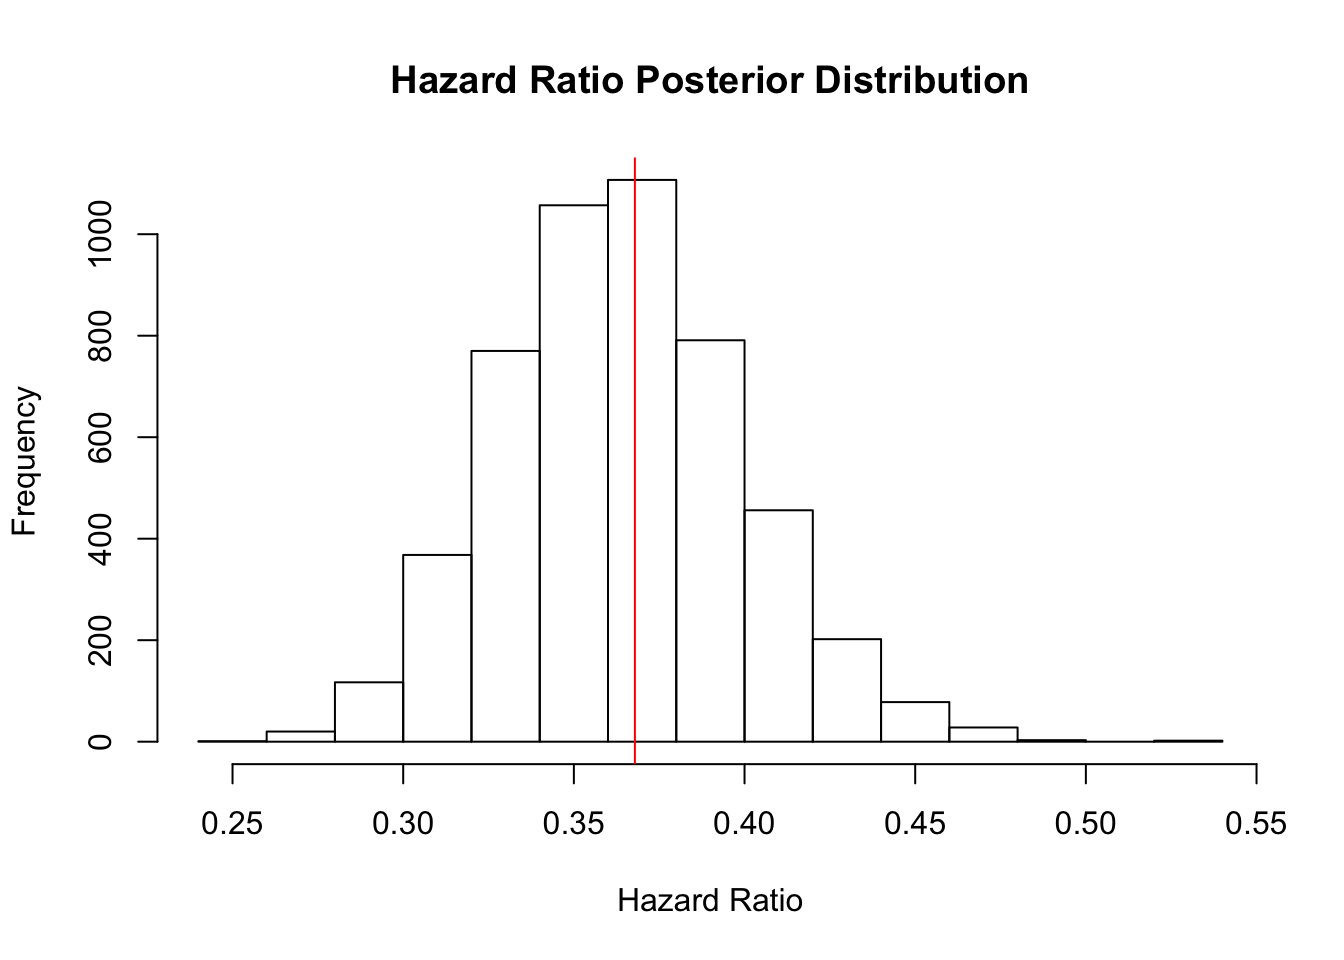
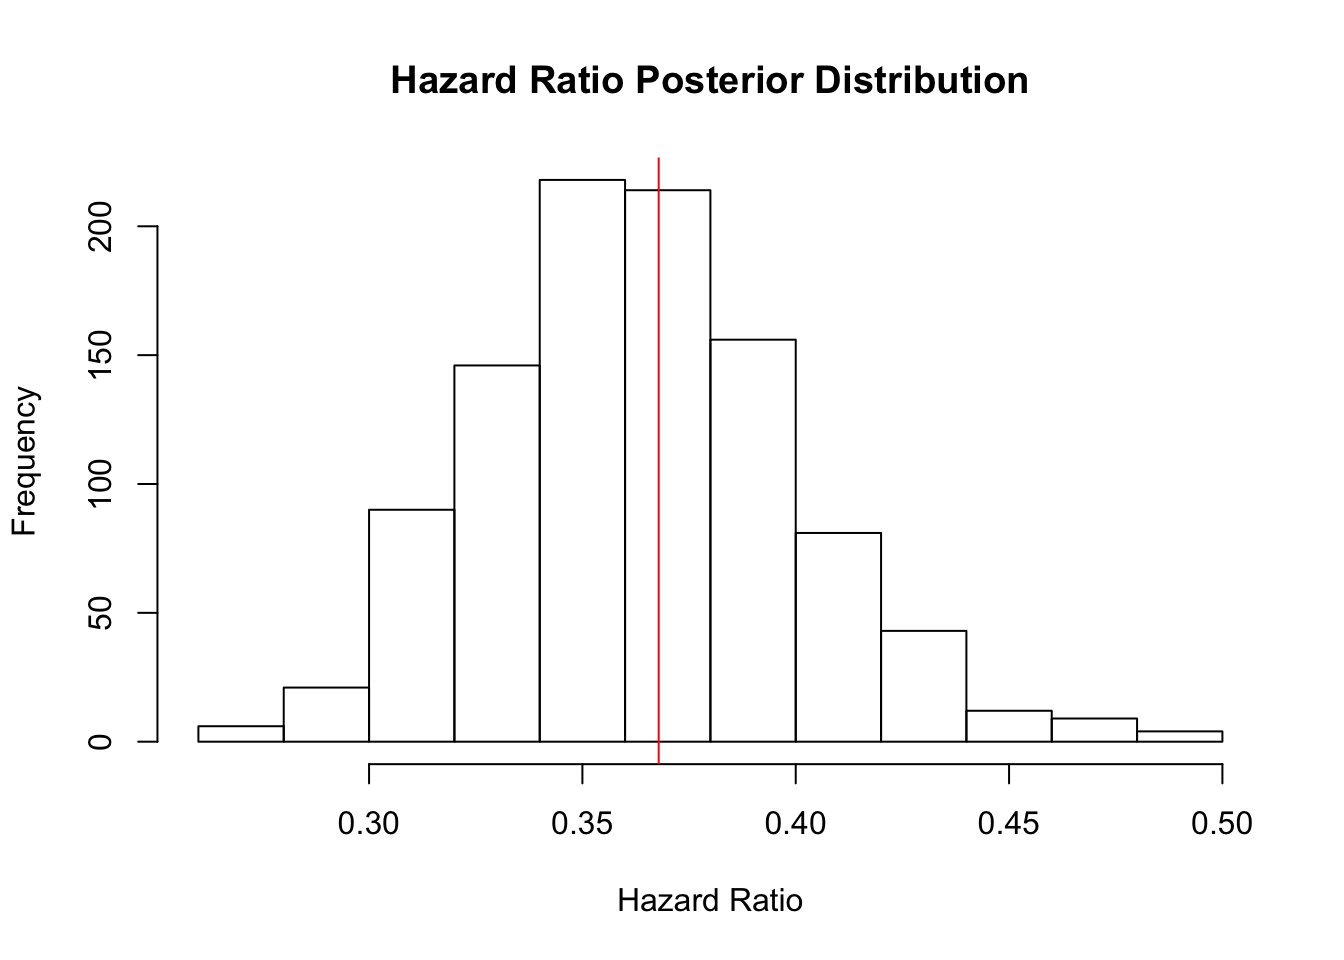
adding Stan AFT post

diff --git a/public/post/post2/specifying-accelerated-failure-time-models-in-stan/index.html b/public/post/post2/specifying-accelerated-failure-time-models-in-stan/index.html
@@ -141,7 +141,7 @@ Let’s start with simulating some randomly censored data from a Weibull model."
   
   <meta property="article:published_time" content="2019-03-09T00:00:00&#43;00:00">
   
-  <meta property="article:modified_time" content="2019-03-09T12:32:22-05:00">
+  <meta property="article:modified_time" content="2019-03-09T13:35:59-05:00">
   
 
   
@@ -316,7 +316,7 @@ Let’s start with simulating some randomly censored data from a Weibull model."
 
 
 <meta content="2019-03-09 00:00:00 &#43;0000 UTC" itemprop="datePublished">
-<meta content="2019-03-09 12:32:22 -0500 EST" itemprop="dateModified">
+<meta content="2019-03-09 13:35:59 -0500 EST" itemprop="dateModified">
 
 <div class="article-metadata">
 
@@ -534,13 +534,13 @@ generated quantities{
 <p>The Stan model specified above is stored in an object called <code>weibull_mod</code>, which is called below in <code>sampling()</code>. The code below samples from the posterior and outputs posterior draws of the hazard and predicted survival times.</p>
 <pre class="r"><code>weibull_fit &lt;- sampling(weibull_mod,
                 data = d_list, 
-                chains = 1, iter=20000, warmup=15000,
+                chains = 1, iter=20000, warmup=19000, save_warmup=F,
                 pars= c(&#39;hazard_ratio&#39;,&#39;post_pred_trt&#39;,&#39;post_pred_pbo&#39;))</code></pre>
 <pre><code>## 
 ## SAMPLING FOR MODEL &#39;80acc0f9293b946800a710dd7f5e211c&#39; NOW (CHAIN 1).
 ## Chain 1: 
-## Chain 1: Gradient evaluation took 0.00018 seconds
-## Chain 1: 1000 transitions using 10 leapfrog steps per transition would take 1.8 seconds.
+## Chain 1: Gradient evaluation took 0.000151 seconds
+## Chain 1: 1000 transitions using 10 leapfrog steps per transition would take 1.51 seconds.
 ## Chain 1: Adjust your expectations accordingly!
 ## Chain 1: 
 ## Chain 1: 
@@ -552,14 +552,14 @@ generated quantities{
 ## Chain 1: Iteration: 10000 / 20000 [ 50%]  (Warmup)
 ## Chain 1: Iteration: 12000 / 20000 [ 60%]  (Warmup)
 ## Chain 1: Iteration: 14000 / 20000 [ 70%]  (Warmup)
-## Chain 1: Iteration: 15001 / 20000 [ 75%]  (Sampling)
-## Chain 1: Iteration: 17000 / 20000 [ 85%]  (Sampling)
-## Chain 1: Iteration: 19000 / 20000 [ 95%]  (Sampling)
+## Chain 1: Iteration: 16000 / 20000 [ 80%]  (Warmup)
+## Chain 1: Iteration: 18000 / 20000 [ 90%]  (Warmup)
+## Chain 1: Iteration: 19001 / 20000 [ 95%]  (Sampling)
 ## Chain 1: Iteration: 20000 / 20000 [100%]  (Sampling)
 ## Chain 1: 
-## Chain 1:  Elapsed Time: 11.8051 seconds (Warm-up)
-## Chain 1:                4.84561 seconds (Sampling)
-## Chain 1:                16.6507 seconds (Total)
+## Chain 1:  Elapsed Time: 9.5508 seconds (Warm-up)
+## Chain 1:                0.794706 seconds (Sampling)
+## Chain 1:                10.3455 seconds (Total)
 ## Chain 1:</code></pre>
 <pre class="r"><code>post_draws&lt;-extract(weibull_fit)</code></pre>
 <p>Below we plot posterior distribution of the hazard ratio. The red line indicates the true value under which we generated the data.</p>
@@ -568,15 +568,15 @@ generated quantities{
 abline(v=exp(-1*true_beta[2,1]*true_alpha), col=&#39;red&#39;)</code></pre>
 <p><img src="/post/post2/2019-03-09-specifying-accelerated-failure-time-models-in-stan_files/figure-html/plot_hazard_ratio-1.png" width="672" /></p>
 <pre class="r"><code>mean(post_draws$hazard_ratio)</code></pre>
-<pre><code>## [1] 0.3641612</code></pre>
+<pre><code>## [1] 0.3635223</code></pre>
 <pre class="r"><code>quantile(post_draws$hazard_ratio, probs = c(.025, .975))</code></pre>
 <pre><code>##      2.5%     97.5% 
-## 0.2988710 0.4378557</code></pre>
+## 0.2989080 0.4399663</code></pre>
 <p>Below we plot the survival functions. Note these results are very similar to the augmented sampler coded in the previous post.</p>
 <pre class="r"><code>plot(survfit(Surv(survt, 1-delta) ~ A ), col=c(&#39;black&#39;,&#39;blue&#39;),
      xlab=&#39;Time&#39;,ylab=&#39;Survival Probability&#39;, conf.int=T)
 
-for(i in 1:5000){
+for(i in 1:1000){
   trt_ecdf &lt;- ecdf(post_draws$post_pred_trt[i,])
   curve(1 - trt_ecdf(x), from = 0, to=4, add=T, col=&#39;gray&#39;)
   

diff --git a/content/post/post2/2019-03-09-specifying-accelerated-failure-time-models-in-stan.html b/content/post/post2/2019-03-09-specifying-accelerated-failure-time-models-in-stan.html
@@ -120,13 +120,13 @@ generated quantities{
 <p>The Stan model specified above is stored in an object called <code>weibull_mod</code>, which is called below in <code>sampling()</code>. The code below samples from the posterior and outputs posterior draws of the hazard and predicted survival times.</p>
 <pre class="r"><code>weibull_fit &lt;- sampling(weibull_mod,
                 data = d_list, 
-                chains = 1, iter=20000, warmup=15000,
+                chains = 1, iter=20000, warmup=19000, save_warmup=F,
                 pars= c(&#39;hazard_ratio&#39;,&#39;post_pred_trt&#39;,&#39;post_pred_pbo&#39;))</code></pre>
 <pre><code>## 
 ## SAMPLING FOR MODEL &#39;80acc0f9293b946800a710dd7f5e211c&#39; NOW (CHAIN 1).
 ## Chain 1: 
-## Chain 1: Gradient evaluation took 0.00018 seconds
-## Chain 1: 1000 transitions using 10 leapfrog steps per transition would take 1.8 seconds.
+## Chain 1: Gradient evaluation took 0.000151 seconds
+## Chain 1: 1000 transitions using 10 leapfrog steps per transition would take 1.51 seconds.
 ## Chain 1: Adjust your expectations accordingly!
 ## Chain 1: 
 ## Chain 1: 
@@ -138,14 +138,14 @@ generated quantities{
 ## Chain 1: Iteration: 10000 / 20000 [ 50%]  (Warmup)
 ## Chain 1: Iteration: 12000 / 20000 [ 60%]  (Warmup)
 ## Chain 1: Iteration: 14000 / 20000 [ 70%]  (Warmup)
-## Chain 1: Iteration: 15001 / 20000 [ 75%]  (Sampling)
-## Chain 1: Iteration: 17000 / 20000 [ 85%]  (Sampling)
-## Chain 1: Iteration: 19000 / 20000 [ 95%]  (Sampling)
+## Chain 1: Iteration: 16000 / 20000 [ 80%]  (Warmup)
+## Chain 1: Iteration: 18000 / 20000 [ 90%]  (Warmup)
+## Chain 1: Iteration: 19001 / 20000 [ 95%]  (Sampling)
 ## Chain 1: Iteration: 20000 / 20000 [100%]  (Sampling)
 ## Chain 1: 
-## Chain 1:  Elapsed Time: 11.8051 seconds (Warm-up)
-## Chain 1:                4.84561 seconds (Sampling)
-## Chain 1:                16.6507 seconds (Total)
+## Chain 1:  Elapsed Time: 9.5508 seconds (Warm-up)
+## Chain 1:                0.794706 seconds (Sampling)
+## Chain 1:                10.3455 seconds (Total)
 ## Chain 1:</code></pre>
 <pre class="r"><code>post_draws&lt;-extract(weibull_fit)</code></pre>
 <p>Below we plot posterior distribution of the hazard ratio. The red line indicates the true value under which we generated the data.</p>
@@ -154,15 +154,15 @@ generated quantities{
 abline(v=exp(-1*true_beta[2,1]*true_alpha), col=&#39;red&#39;)</code></pre>
 <p><img src="/post/post2/2019-03-09-specifying-accelerated-failure-time-models-in-stan_files/figure-html/plot_hazard_ratio-1.png" width="672" /></p>
 <pre class="r"><code>mean(post_draws$hazard_ratio)</code></pre>
-<pre><code>## [1] 0.3641612</code></pre>
+<pre><code>## [1] 0.3635223</code></pre>
 <pre class="r"><code>quantile(post_draws$hazard_ratio, probs = c(.025, .975))</code></pre>
 <pre><code>##      2.5%     97.5% 
-## 0.2988710 0.4378557</code></pre>
+## 0.2989080 0.4399663</code></pre>
 <p>Below we plot the survival functions. Note these results are very similar to the augmented sampler coded in the previous post.</p>
 <pre class="r"><code>plot(survfit(Surv(survt, 1-delta) ~ A ), col=c(&#39;black&#39;,&#39;blue&#39;),
      xlab=&#39;Time&#39;,ylab=&#39;Survival Probability&#39;, conf.int=T)
 
-for(i in 1:5000){
+for(i in 1:1000){
   trt_ecdf &lt;- ecdf(post_draws$post_pred_trt[i,])
   curve(1 - trt_ecdf(x), from = 0, to=4, add=T, col=&#39;gray&#39;)
   

diff --git a/public/index.html b/public/index.html
@@ -607,7 +607,7 @@
 
 
 <meta content="2019-03-09 00:00:00 &#43;0000 UTC" itemprop="datePublished">
-<meta content="2019-03-09 12:32:22 -0500 EST" itemprop="dateModified">
+<meta content="2019-03-09 13:35:59 -0500 EST" itemprop="dateModified">
 
 <div class="article-metadata">
 

diff --git a/public/post/index.html b/public/post/index.html
@@ -358,7 +358,7 @@
 
 
 <meta content="2019-03-09 00:00:00 &#43;0000 UTC" itemprop="datePublished">
-<meta content="2019-03-09 12:32:22 -0500 EST" itemprop="dateModified">
+<meta content="2019-03-09 13:35:59 -0500 EST" itemprop="dateModified">
 
 <div class="article-metadata">
 
